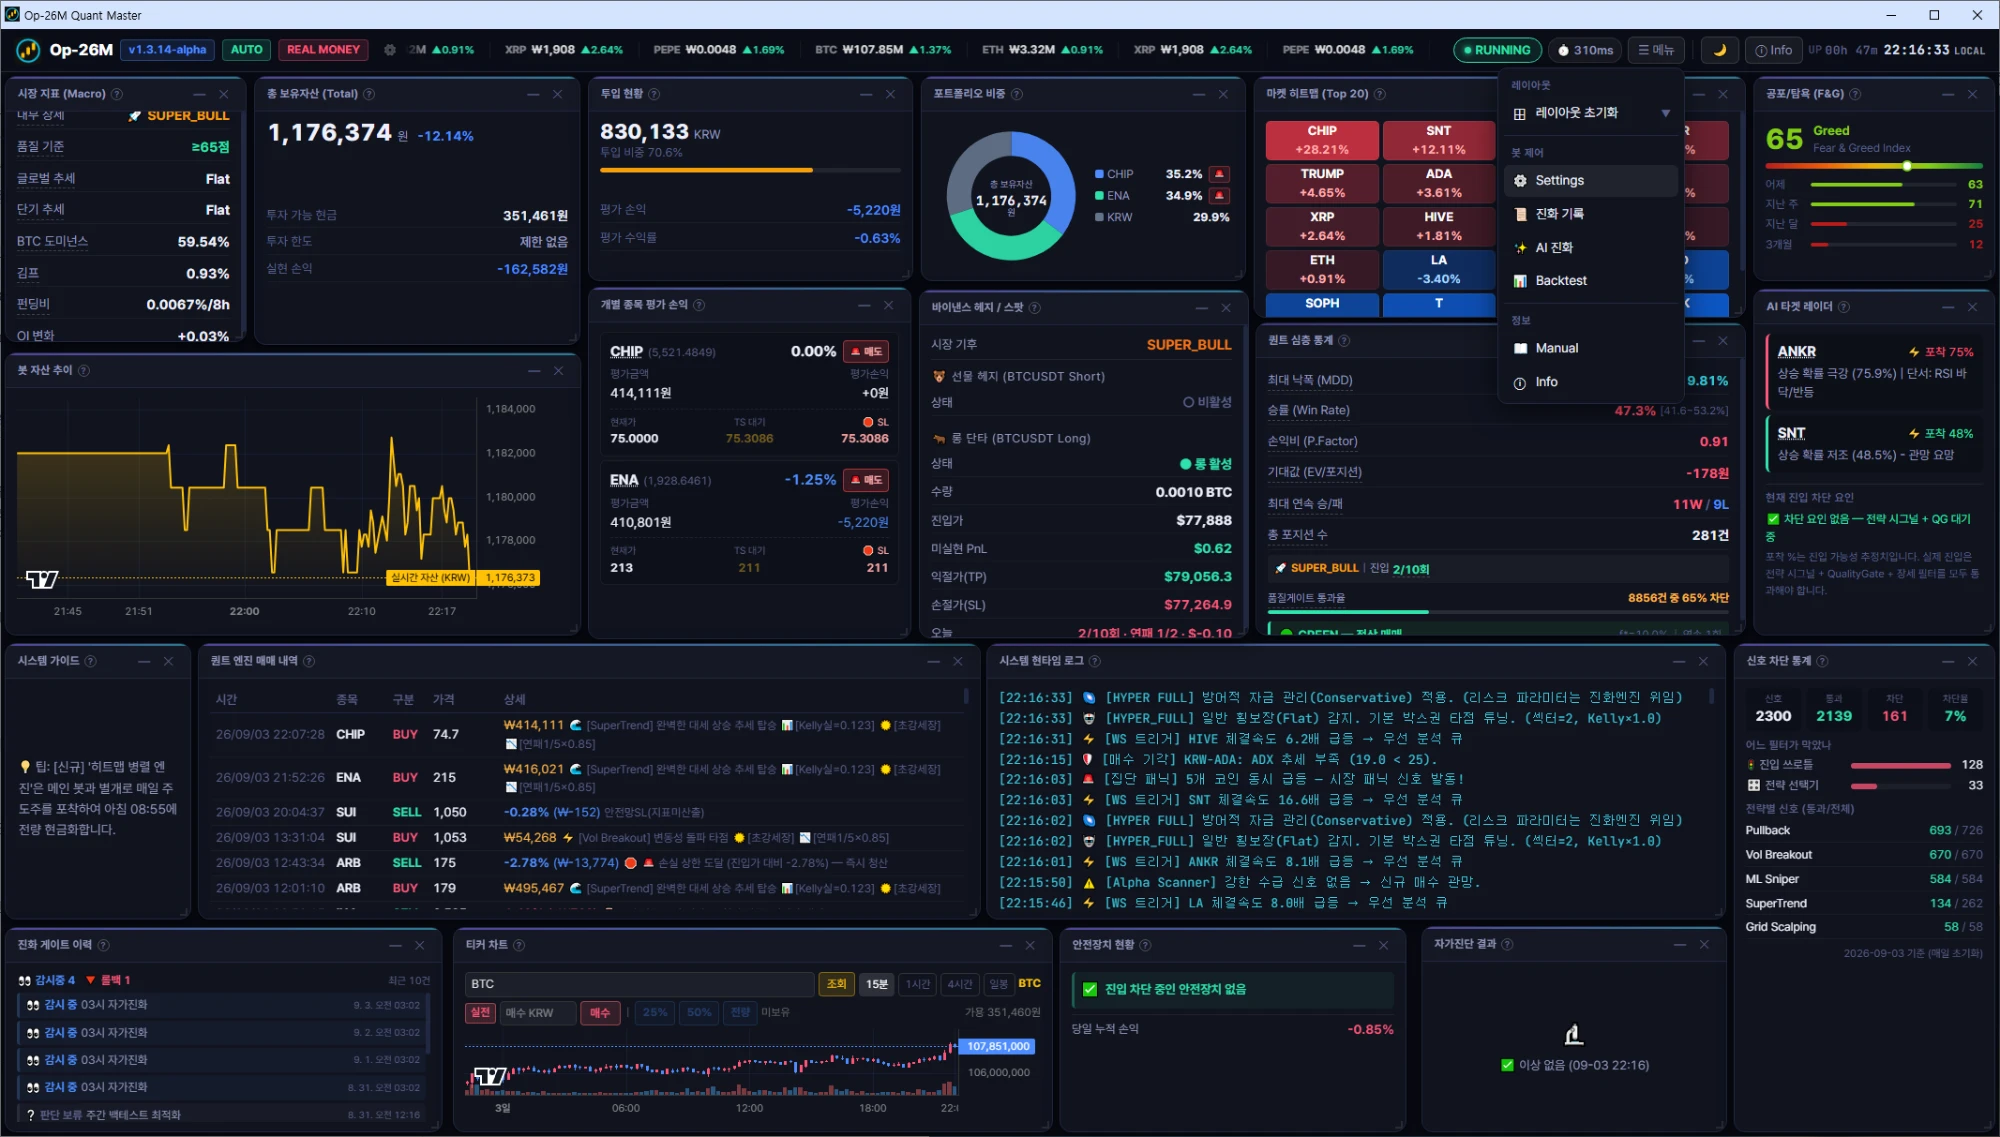
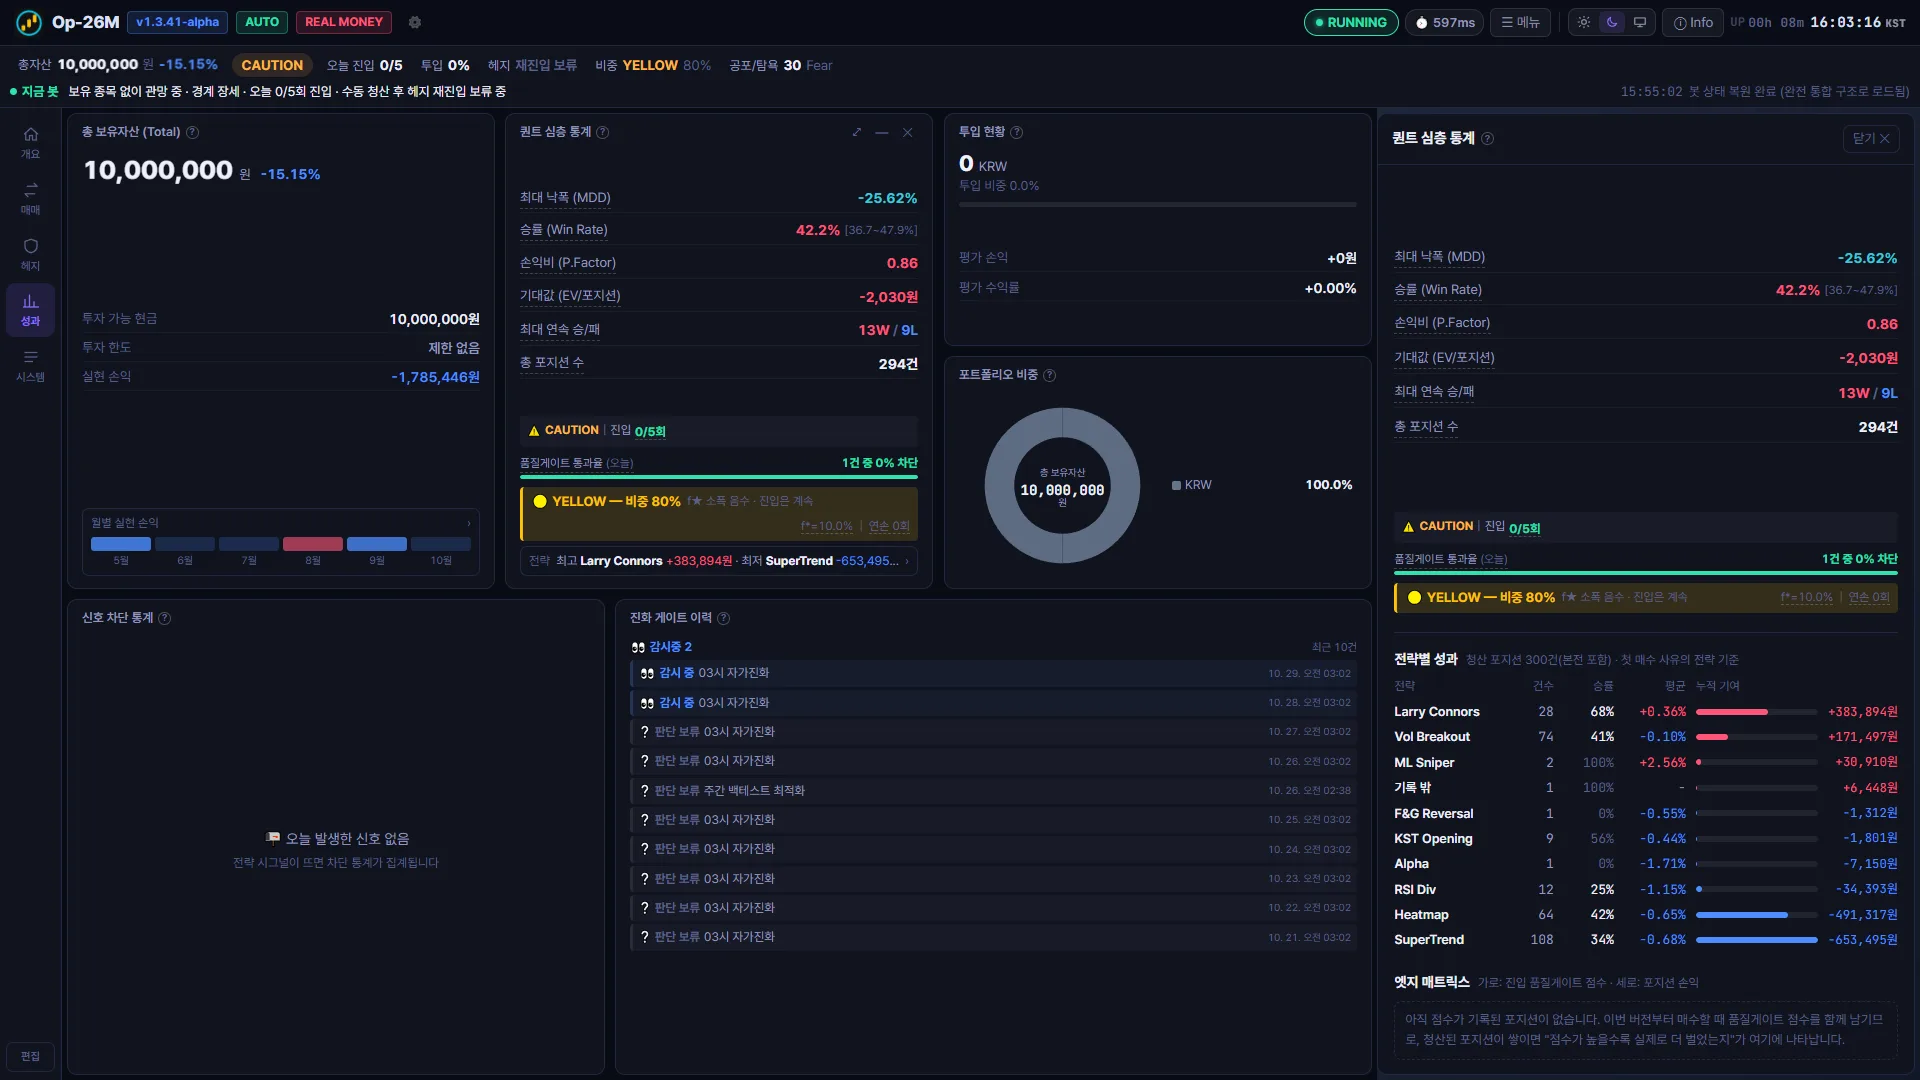
docs: README 대시보드 미리보기·기능·최근 업데이트 갱신
- 스크린샷 5장을 v1.3.41 작업공간 탭 화면으로 교체 (데모 모드: 금액만 1,000만 원 기준 환산)
- 설치 파일 이름 Op-26M_Master_Setup.exe로 수정
- 핵심 기능에 바이낸스 헤지·업비트 경보·노션 매매일지 추가
- 최근 업데이트를 v1.3.37~41로 갱신

diff --git a/README.md b/README.md
@@ -20,7 +20,7 @@
 
 ## 📥 다운로드 및 설치
 
-1. **[⬇ 최신 버전 다운로드](https://github.com/jaeil-park/UpbitBot-Releases/releases/latest)** — `Op-26M_Setup.exe`
+1. **[⬇ 최신 버전 다운로드](https://github.com/jaeil-park/UpbitBot-Releases/releases/latest)** — `Op-26M_Master_Setup.exe`
 2. 다운로드한 설치 파일을 실행합니다.
 3. 바탕화면에 생성된 아이콘으로 퀀트 엔진을 실행합니다.
 
@@ -42,7 +42,10 @@
 | 📉 **동적 ATR 손절** | 코인별 실시간 변동성 반영, 손익비 2:1 미만 진입 자체 거부 |
 | 🔥 **주도주 별동대 (히트맵 엔진)** | 메인 봇과 독립 구동, 당일 최고 모멘텀 코인에 진입 후 매일 08:55 전량 현금화 |
 | ☁ **클라우드 동기화** | PC를 옮겨도 1초 만에 매매 내역·자산 상태 완벽 복원 (Supabase) |
-| 📊 **실시간 대시보드** | 자유배치 위젯, 다크/라이트 테마, 안전장치 현황 실시간 모니터링 및 강제 해제 |
+| 🛰 **바이낸스 헤지** | 장세가 나빠지면 BTC 선물 숏으로 업비트 현물 노출을 자동 헤지, 수동 청산 후 재진입 보류 |
+| 📢 **업비트 경보 감시** | 가격 급등락·거래량/입금량 급증·해외 가격 차이 등 업비트 주의·유의 지정을 5분마다 수집해 화면과 타임라인에 표시 |
+| 📓 **노션 매매일지 (선택)** | 포지션이 청산될 때마다 노션 표에 전략·손익·진입 점수·청산 사유와 복기 메모 칸을 자동 기록 |
+| 📊 **실시간 대시보드** | 개요·매매·헤지·성과·시스템 작업공간 탭, 위젯 상세 서랍, 라이트/다크/시스템 테마, 안전장치 현황 모니터링 및 강제 해제 |
 
 전체 기능/아키텍처는 [소스 저장소 README](https://github.com/jaeil-park/UpbitBot#readme)에서 더 자세히 확인하실 수 있습니다. *(본 저장소는 빌드된 실행 파일 배포 전용이며, 소스코드는 저작권 등록된 독점 소프트웨어로 비공개입니다.)*
 
@@ -50,18 +53,22 @@
 
 ## 🖥 대시보드 미리보기
 
-실전 매매(REAL MONEY) 중인 실제 화면입니다. 19개 위젯 자유배치, 실시간 자산추이, 마켓 히트맵, 퀀트 심층 통계까지 한 화면에서 확인할 수 있습니다.
+> 아래 화면은 실제 실행 중인 봇을 **데모 모드**로 찍은 것입니다. 수익률·전략 통계·차트는 실제 그대로이고, 원화 금액만 총자산 1,000만 원 기준으로 환산했습니다.
 
-![대시보드 메인](./1.webp)
+**개요** — 상단 상태 바에 총자산·장세·오늘 진입·헤지·비중이 한 줄로, 그 아래 '지금 봇이 하는 일'. 자산 추이·활동 타임라인(매매·헤지·차단·공지·오류)·한눈에 보기를 한 화면에서 봅니다.
 
-<details>
-<summary>📸 더 많은 화면 보기 (전략 설정 / 실시간 로그 / 안전장치 등)</summary>
+![개요 탭](./1.webp)
+
+<details open>
+<summary>📸 더 많은 화면 보기 (매매 / 성과 / 헤지 / 몬테카를로)</summary>
 <br>
 
 | | |
 | :---: | :---: |
-| ![스크린샷 2](./2.webp) | ![스크린샷 3](./3.webp) |
-| ![스크린샷 4](./4.webp) | ![스크린샷 5](./5.webp) |
+| ![매매 탭](./2.webp) | ![성과 탭과 전략별 성과](./3.webp) |
+| **매매** — 차트 스캐너(종목별 3시간 추세선·AI 레이더 후보·⚠ 업비트 경보), 티커 차트, 매매 내역 | **성과** — 손익 달력, 퀀트 통계, 오른쪽 서랍에 전략별 성과와 엣지 매트릭스 |
+| ![헤지 탭 (라이트 테마)](./4.webp) | ![몬테카를로 익절·손절 확률 (라이트 테마)](./5.webp) |
+| **헤지** — 바이낸스 헤지 상태, 롱/숏 방향 엔진(관찰), 시장 지표·공포탐욕 | **몬테카를로** — 최근 변동성으로 12시간 경로 2,000개를 그려 익절선·손절선 도달 확률 표시 |
 
 </details>
 
@@ -71,11 +78,12 @@
 
 전체 변경 이력은 **[Releases](https://github.com/jaeil-park/UpbitBot-Releases/releases)** 탭에서 버전별로 확인하세요.
 
-<!-- 최근 5개 릴리즈 요약: 필요 시 이 섹션을 새 릴리즈에 맞춰 갱신하세요 -->
-- **v1.3.14** — 롱 단타 상태를 대시보드에서 실시간 확인 가능
-- **v1.3.13** — HODL 지정 관련 3가지 버그 수정, 소액 잔고 선물 주문 거부 문제 해결
-- **v1.3.12** — 위젯 툴팁 잘림 현상 수정, 롱 단타 설정 화면 추가
-- **v1.3.11** — 실거래 360건 사후분석 기반 수익 실현 구조 전면 개선
+<!-- 최근 릴리즈 요약: 필요 시 이 섹션을 새 릴리즈에 맞춰 갱신하세요 -->
+- **v1.3.41** — 노션 매매일지(선택, 최초 안내 팝업), 숫자 변화·목록·서랍 애니메이션
+- **v1.3.40** — 전략별 성과·엣지 매트릭스, 손익 달력, 차트 스캐너, 몬테카를로 확률, 업비트 주의·유의 경보
+- **v1.3.39** — 대시보드를 작업공간 탭으로 개편, 상단 상태 바, 상세 서랍, 활동 타임라인, 라이트/다크/시스템 테마
+- **v1.3.38** — 헤지 수동 청산 후 재진입 보류, 롱/숏 방향 엔진(관찰), 헤지 손실 한도, 대시보드 전송량 감소
+- **v1.3.37** — 라이선스 서버 장애 시에도 정상 시작 (72시간 유예)
 
 ---
 
